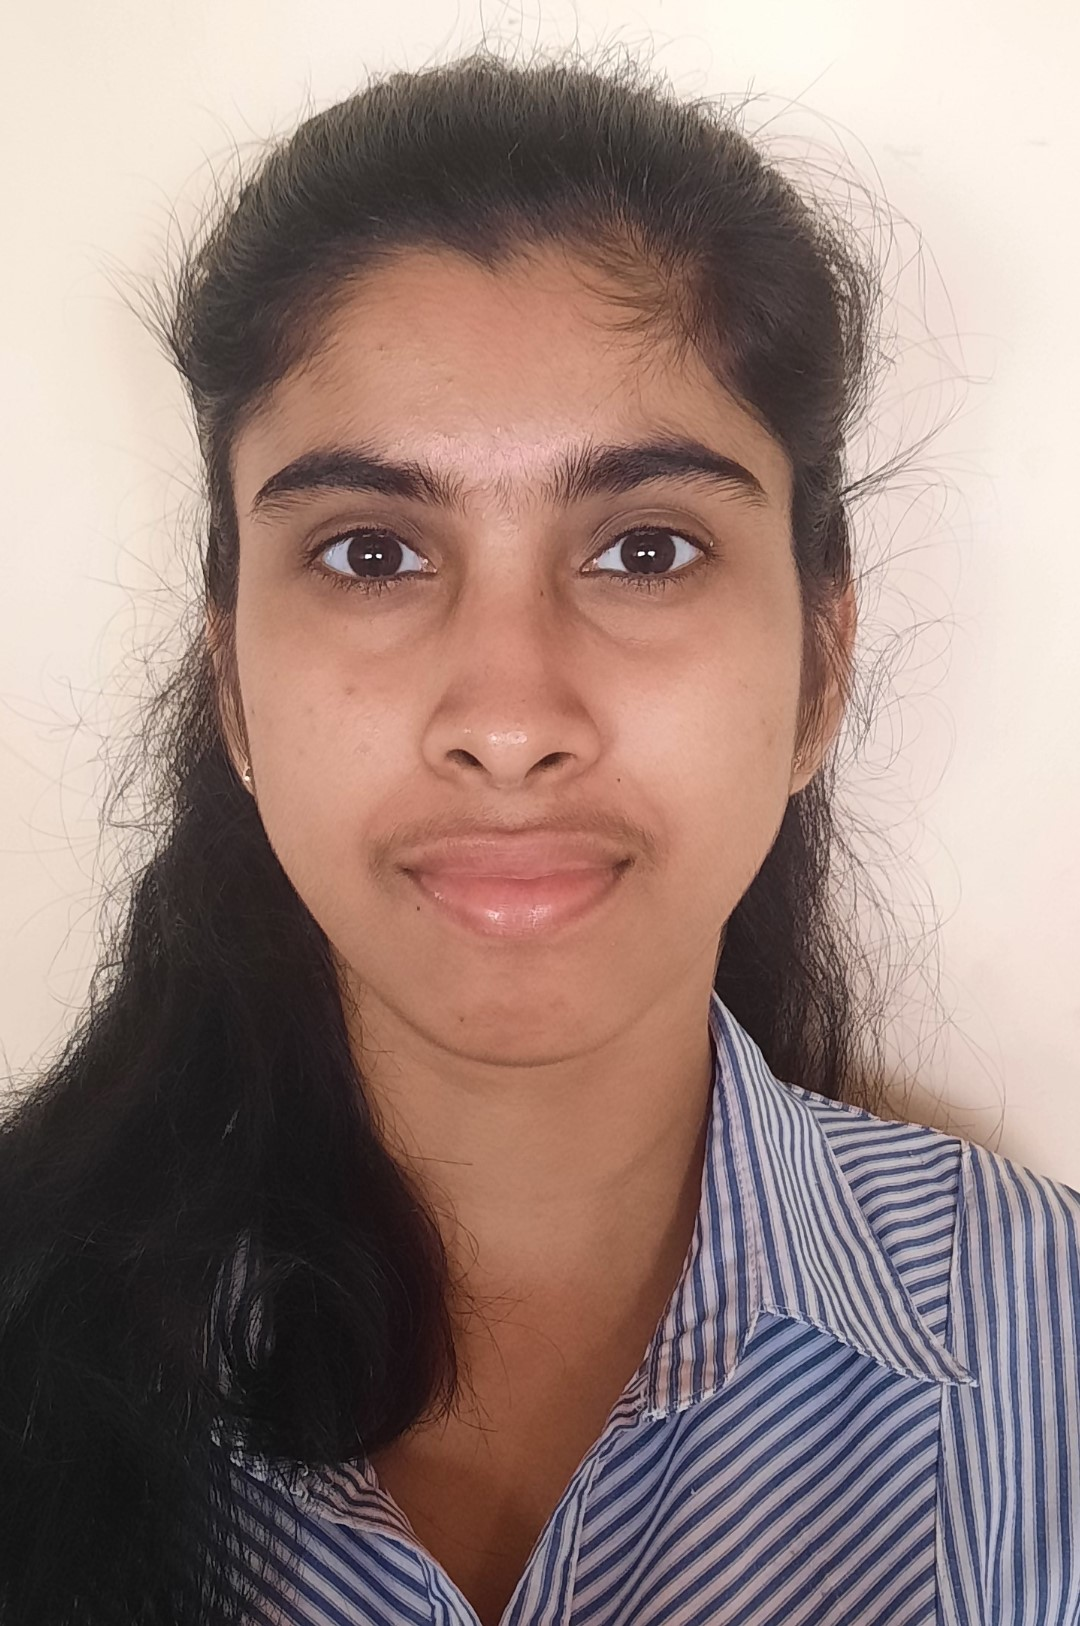
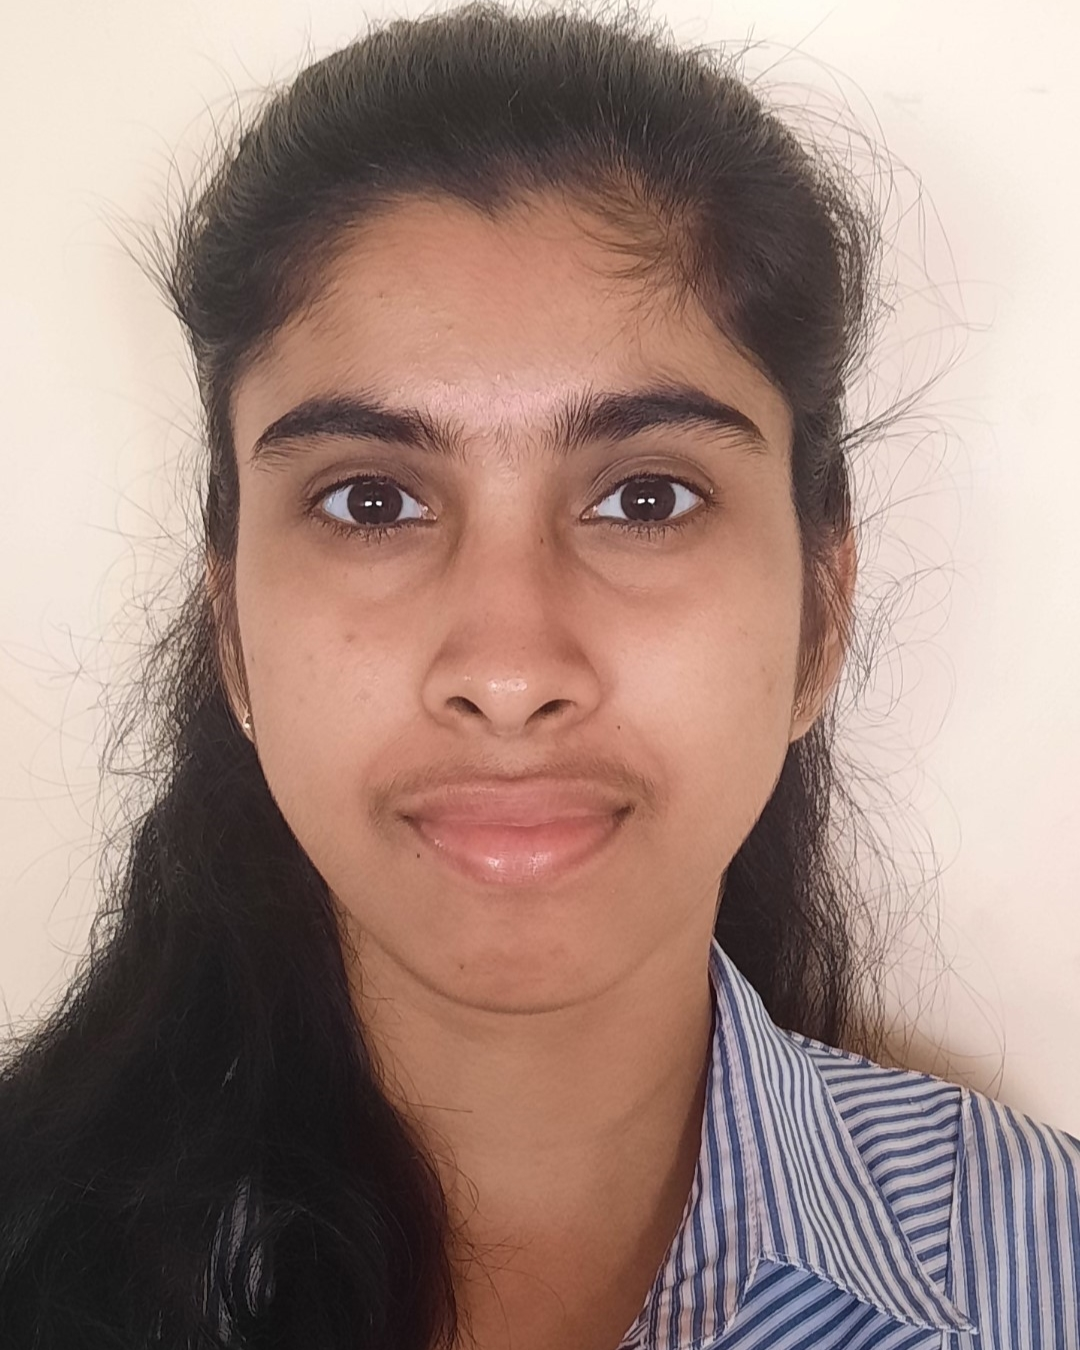
Added my photo, RESIZED all images, Moved a file into correct path
RESIZED ALL EDITOR IMAGES TO 4:5 aspect ratio so it looks more consistant.
Moved and renamed 2 of nanduni's files to correct paths. Linked store.js to store.html

diff --git a/studentdetails.html b/studentdetails.html
@@ -28,7 +28,7 @@
         <h2 style="text-align:center">PROFILE I</h2>
         <br>
         <div class="container">
-            <img src="references/st.png" alt="Avatar" class="image" style="width:100%">
+            <img src="images/editors-images/dumindu.jpg" alt="Avatar" class="image" style="width:100%">
             <div class="middle">
               <div class="text">Dumindu Sameendra</div>
               <div class="text">Team leader</div>

diff --git a/javascript/mainpage-slideshow.js b/javascript/mainpage-slideshow.js
@@ -1,3 +1,4 @@
+//Main Page Slideshow JS - Dumindu//
 let i = 0;
 let images = ["images/quotes/a-mind-needs-a-book.jpg", "images/quotes/good-books-dont-give.jpg", "images/quotes/a-reader-lives-a-thousand.jpg", "images/quotes/life-is-a-book.jpg", "images/quotes/never-trust-anyone-who-hasnt.jpg", "images/quotes/sleep-good-books-better.jpg", "images/quotes/today-reader-tomorrow-leader.jpg"];
 

diff --git a/store.html b/store.html
@@ -7,6 +7,7 @@
     <link rel="shortcut icon" href="images/title-logo.png" type="image/x-icon">
     <link rel="stylesheet" href="style/navbarstyle.css">
     <link rel="stylesheet" href="style/storestyle.css">
+    <script src="javascript/store.js"></script>
 </head>
 <body>
     <!--Navigation Bar - Dumindu-->

diff --git a/style/storestyle.css b/style/storestyle.css
@@ -1,5 +1,5 @@
 /* Store CSS - Nanduni */
 body{
-    background-image: url("../images/istockphoto-1149119293-612x612.jpg");
+    background-image: url("../images/girl-in-bookshop.jpg");
     background-size: cover;
 }
